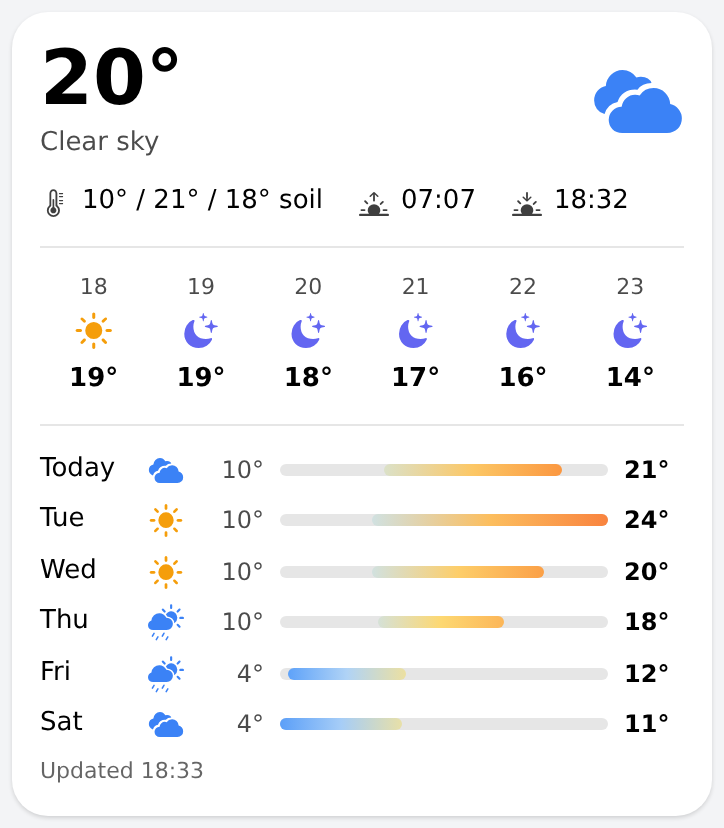
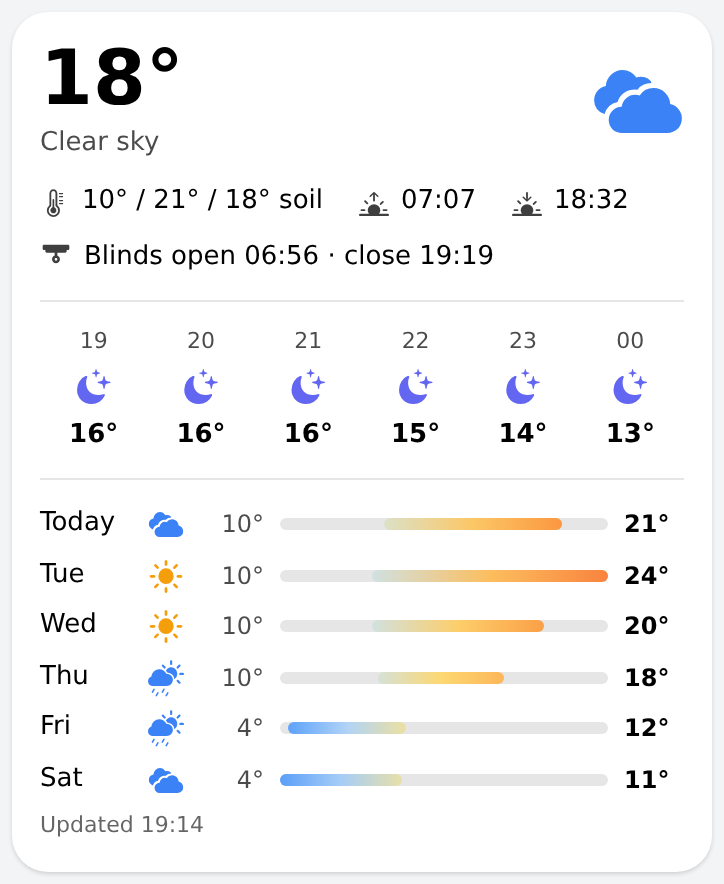
release(weather_card): v1.2.0 — blinds open/close line

diff --git a/widgets/weather_card/README.md b/widgets/weather_card/README.md
@@ -10,19 +10,30 @@ Item convention: `<forecastPrefix>Hours01..06_Timestamp/_Iconid/_Temperature` an
 (the openHAB OpenWeatherMap binding's forecast channel groups).
 
 ## Props
-| Prop | Required | Default | Description |
-|---|---|---|---|
-| `tempItem` | No | `Netatmo_Weather_Station_Outdoor_Temperature` | Current outdoor temperature. |
-| `conditionItem` | No | `OpenWeatherMap_Forecast_API_Current_Condition` | Condition text (String). |
-| `iconItem` | No | `OpenWeatherMap_Forecast_API_Forecasts_ForecastToday_Iconid` | OpenWeatherMap icon id of today (e.g. 03d); the night variant is picked from the trailing d/n. |
-| `minItem` | No | `OpenWeatherMap_Forecast_API_Forecasts_ForecastToday_Mintemperature` | Today's minimum temperature. |
-| `maxItem` | No | `OpenWeatherMap_Forecast_API_Forecasts_ForecastToday_Maxtemperature` | Today's maximum temperature. |
-| `sunriseItem` | No | `LocalSun_Rise_Start` | DateTime item. |
-| `sunsetItem` | No | `LocalSun_Set_Start` | DateTime item. |
-| `updatedItem` | No | `Netatmo_Weather_Station_Measures_Timestamp` | DateTime of the last station measurement. |
-| `forecastPrefix` | No | `OpenWeatherMap_Forecast_API_Forecasts_Forecast` | Prefix of the OpenWeatherMap forecast items: <prefix>Hours01..06_Timestamp/_Iconid/_Temperature and <prefix>Today/Tomorrow/Day2..Day5_Iconid/_Mintemperature/_Maxtemperature. |
+| Prop | Default | Description |
+|---|---|---|
+| `tempItem` | `Netatmo_Weather_Station_Outdoor_Temperature` | Current outdoor temperature. |
+| `conditionItem` | `OpenWeatherMap_Forecast_API_Current_Condition` | Condition text (String). |
+| `iconItem` | `OpenWeatherMap_Forecast_API_Forecasts_ForecastToday_Iconid` | OpenWeatherMap icon id of today (e.g. 03d); the night variant is picked from the trailing d/n. |
+| `minItem` | `OpenWeatherMap_Forecast_API_Forecasts_ForecastToday_Mintemperature` | Today's minimum temperature. |
+| `maxItem` | `OpenWeatherMap_Forecast_API_Forecasts_ForecastToday_Maxtemperature` | Today's maximum temperature. |
+| `sunriseItem` | `LocalSun_Rise_Start` | DateTime item. |
+| `sunsetItem` | `LocalSun_Set_Start` | DateTime item. |
+| `soilItem` | `Netatmo_Weather_Station_Soil_Temp` | Optional soil temperature, shown after min/max. |
+| `blindsOpenItem` | `LocalSun_CivilDawn_Start` | Optional DateTime item the morning blind routine is triggered from (e.g. civil dawn start). Empty = no blinds line. |
+| `blindsOpenOffset` | `20` | Minutes the routine adds to that item's time (the offset in the rule's DateTime trigger). |
+| `blindsCloseItem` | `LocalSun_CivilDusk_End` | Optional DateTime item the evening blind routine is triggered from (e.g. civil dusk end). |
+| `blindsCloseOffset` | `12` | Minutes the routine adds to that item's time. |
+| `updatedItem` | `Netatmo_Weather_Station_Measures_Timestamp` | DateTime of the last station measurement. |
+| `forecastPrefix` | `OpenWeatherMap_Forecast_API_Forecasts_Forecast` | Prefix of the OpenWeatherMap forecast items: <prefix>Hours01..06_Timestamp/_Iconid/_Temperature and <prefix>Today/Tomorrow/Day2..Day5_Iconid/_Mintemperature/_Maxtemperature. |
+
+The blinds line shows when the automation opens and closes the blinds: the time of the item the routine is triggered from plus the offset configured in the rule's DateTime trigger. Keep the two offset props equal to the rule offsets; leave `blindsOpenItem` empty to hide the line.
 
 ## Changelog
+
+### Version 1.2.0
+
+- Optional blinds line ("Blinds open 06:56 · close 19:19") from the dawn/dusk items the blind routines use plus their trigger offsets (new props `blindsOpenItem`, `blindsOpenOffset`, `blindsCloseItem`, `blindsCloseOffset`)
 
 ### Version 1.1.0
 
